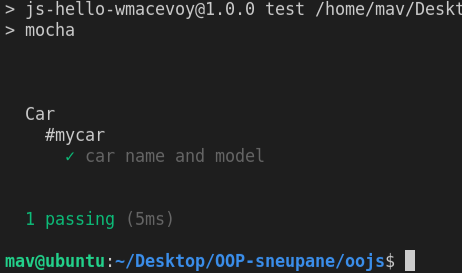
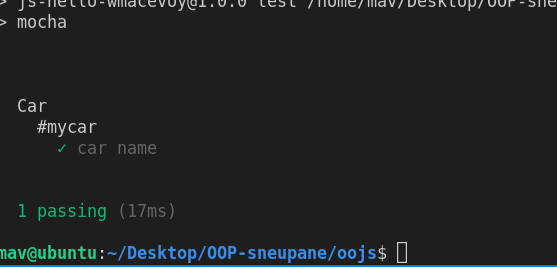
test corrected

diff --git a/oojs/test/cartest.js b/oojs/test/cartest.js
@@ -7,16 +7,13 @@ const assertEq=assert.deepStrictEqual
 
 describe('Car',function(){
     describe('#mycar',function(){
-        it('car name and model',function(){
+        it('car name ',function(){
             const carname='ford'
-            const carmodel='mustang'
             
-            let car1=new Model(carname,carmodel)
-            assertEq("I have a ford, it is a mustang",car1.mycar())
+            let car1=new Car(carname)
+            assertEq("I have a ford",car1.present())
             
             
         })
     })
-    
-   
 })
